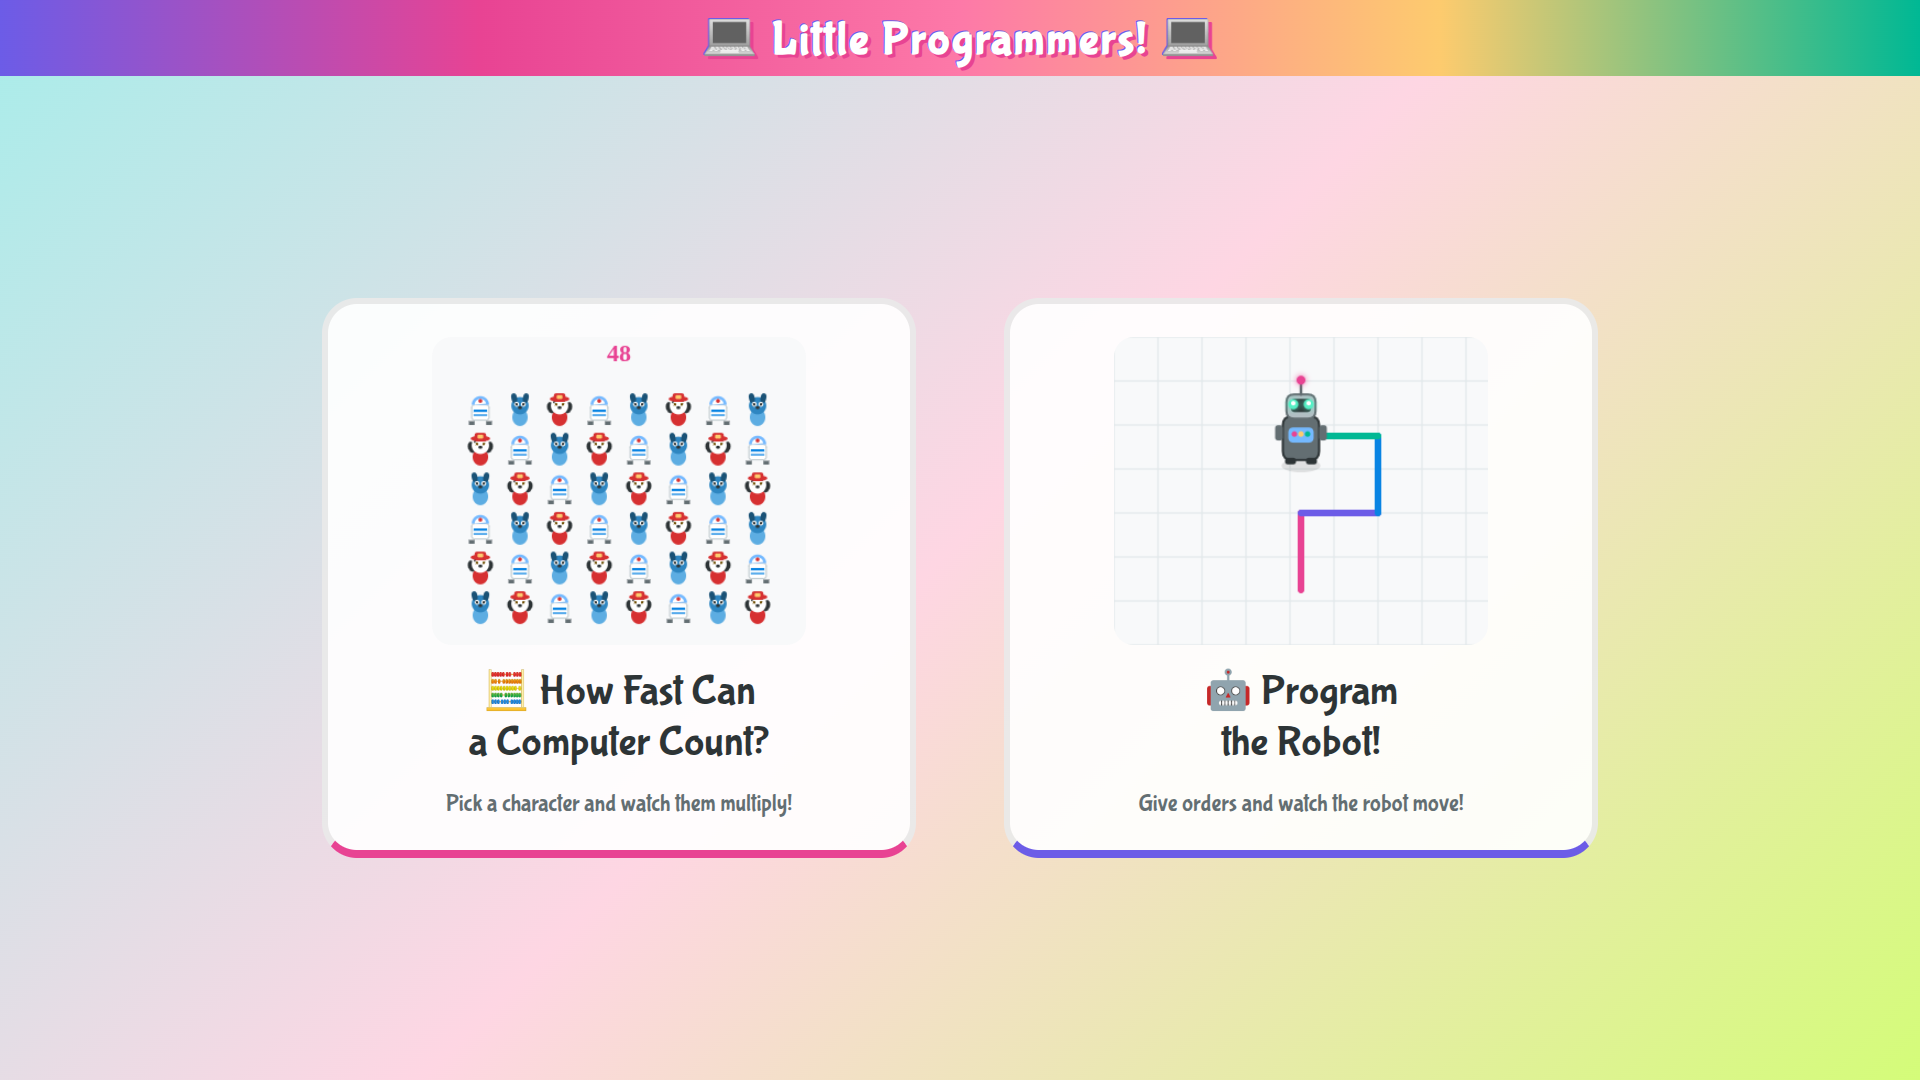
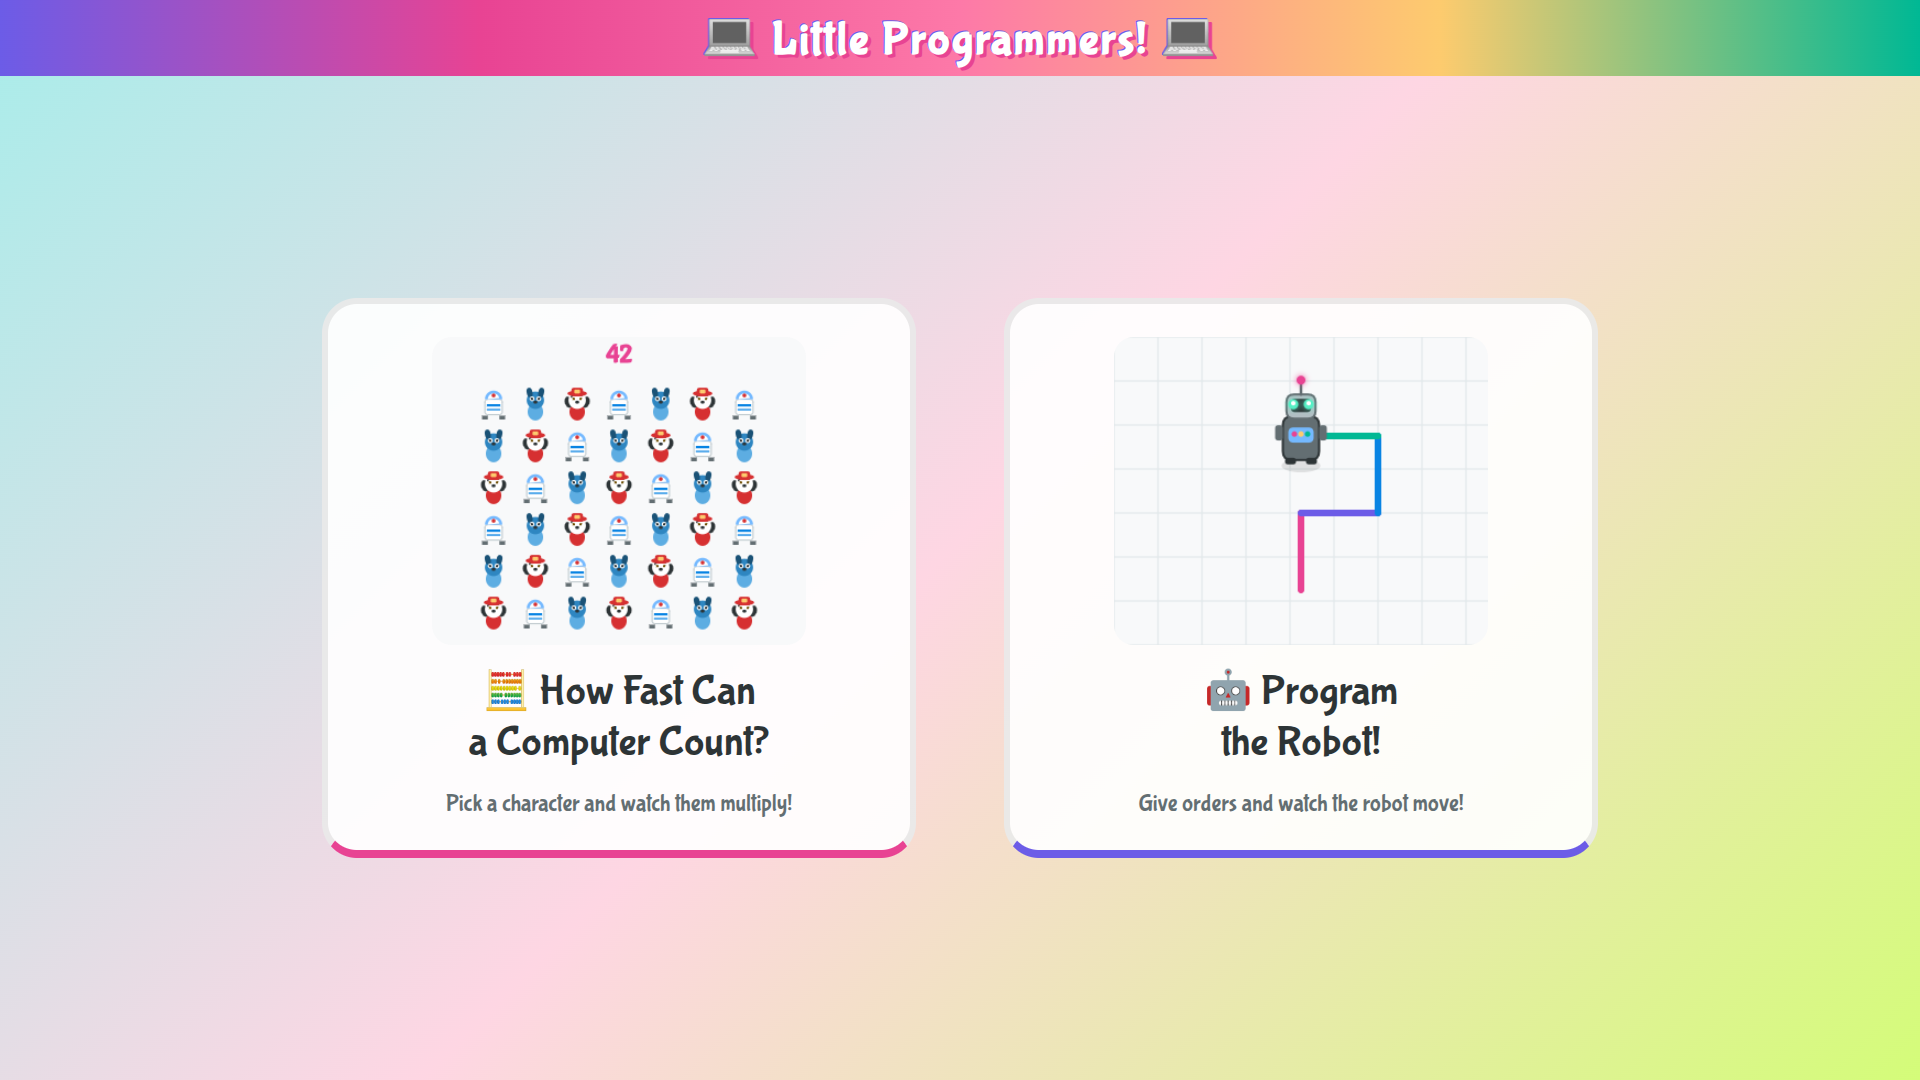
s/48/42/ in counting game screenshot in index.html
I couldn't let Douglas Adams down.

Changed region(s): [[0.2188, 0.3361, 0.4062, 0.5806], [0.3125, 0.3056, 0.3438, 0.3361]]

diff --git a/index.html b/index.html
@@ -114,11 +114,11 @@
   // Draw a grid of mixed mini characters
   const chars = [drawMiniR2D2, drawMiniBluey, drawMiniMarshall];
   const size = 28;
-  const gap = 8;
+  const gap = 10;
   const cell = size + gap;
   const topReserved = 32; // space for counter text
-  const cols = Math.floor((c.width - 20) / cell);
-  const rows = Math.floor((c.height - 20 - topReserved) / cell);
+  const cols = 7;
+  const rows = 6;
   const offsetX = (c.width - cols * cell + gap) / 2 + size / 2;
   const offsetY = topReserved + (c.height - topReserved - rows * cell + gap) / 2 + size / 2;
 
